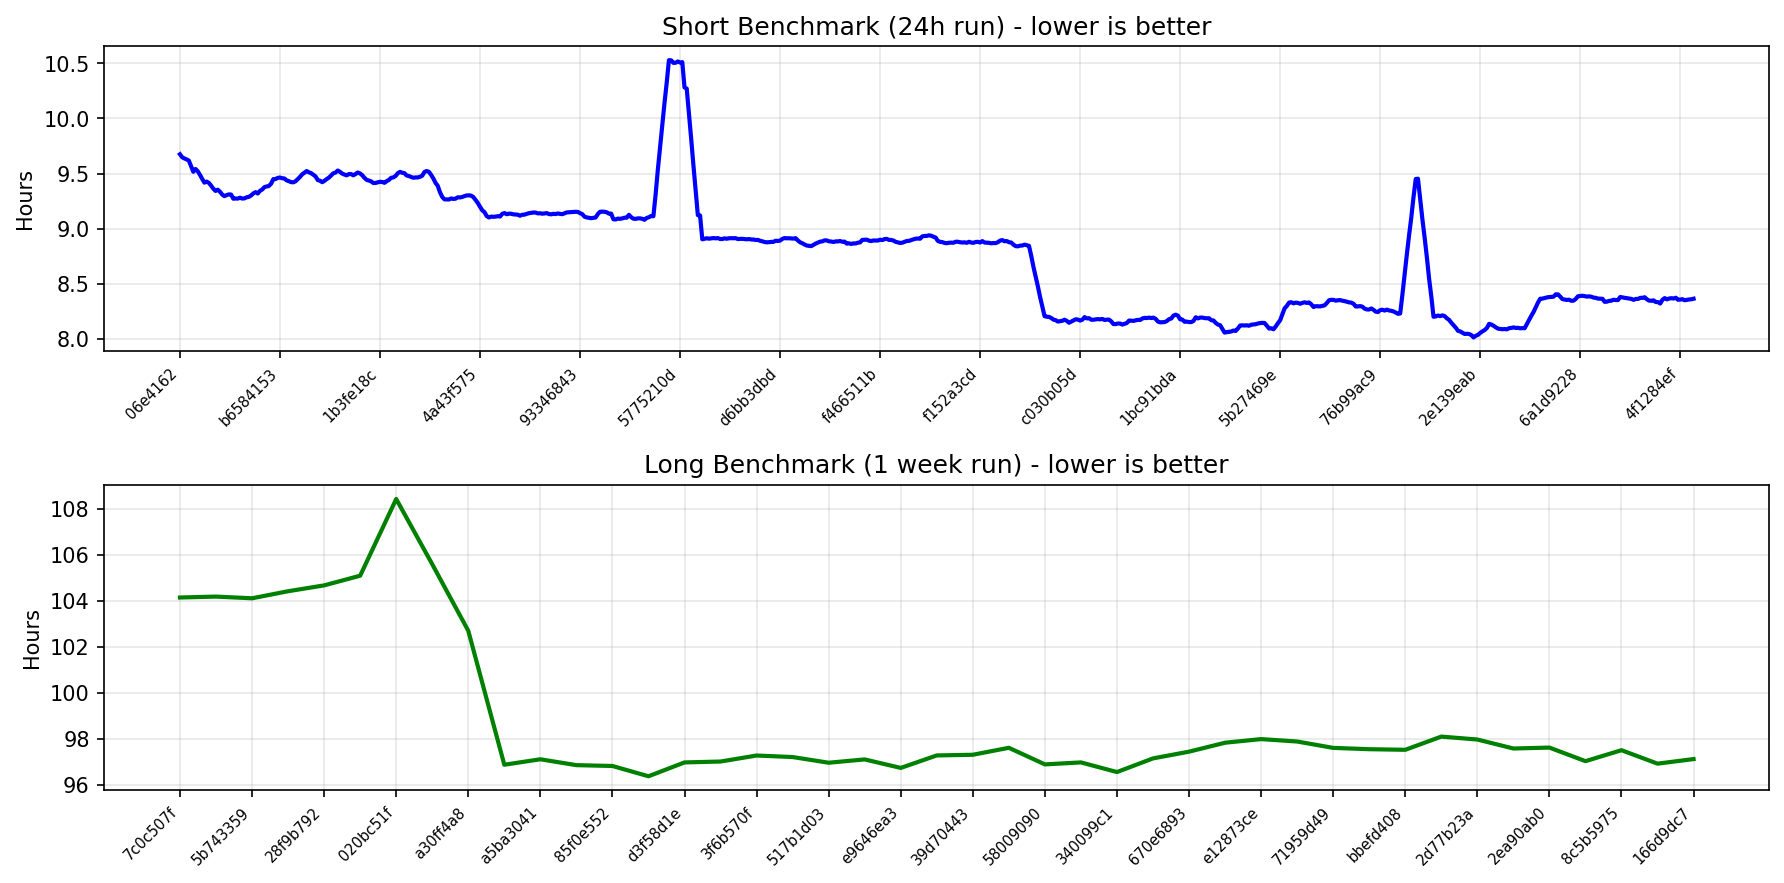
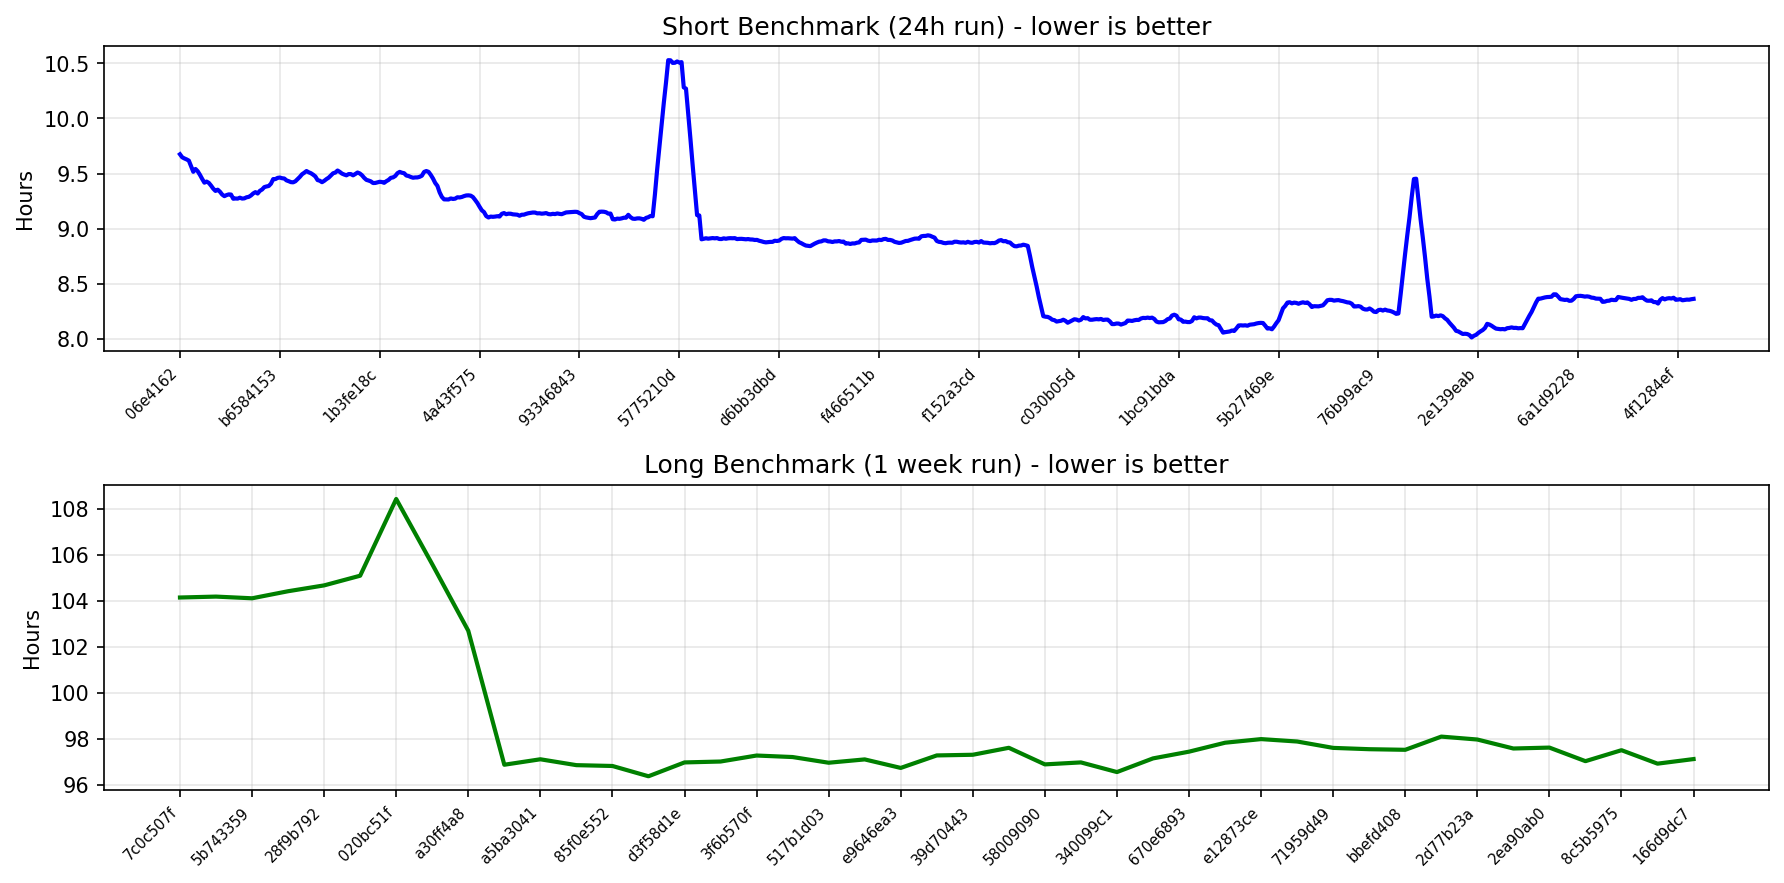
chore: update short benchmark Readme

diff --git a/README.md b/README.md
@@ -12,11 +12,11 @@ This repository contains various eth1 import benchmark metrics.
 
 | Generated At | Baseline SHA | Contender SHA | Baseline Time | Contender Time | Time Delta |
 |--------------|--------------|---------------|---------------|----------------|------------|
+| 2026-05-24 19:26:09 | [c7a238a4](https://github.com/status-im/nimbus-eth1/commit/c7a238a4) | [54deb43d](https://github.com/status-im/nimbus-eth1/commit/54deb43d) | 8h21m41s | 8h21m9s | -31s, -0.11% |
 | 2026-05-24 10:49:14 | [b548086a](https://github.com/status-im/nimbus-eth1/commit/b548086a) | [c7a238a4](https://github.com/status-im/nimbus-eth1/commit/c7a238a4) | 8h22m15s | 8h21m41s | -34s, -0.11% |
 | 2026-05-24 02:11:52 | [01949287](https://github.com/status-im/nimbus-eth1/commit/01949287) | [b548086a](https://github.com/status-im/nimbus-eth1/commit/b548086a) | 8h21m56s | 8h22m15s | 19s, 0.06% |
 | 2026-05-23 17:34:48 | [5341dd13](https://github.com/status-im/nimbus-eth1/commit/5341dd13) | [01949287](https://github.com/status-im/nimbus-eth1/commit/01949287) | 8h21m0s | 8h21m56s | 56s, 0.19% |
 | 2026-05-23 08:58:31 | [74c672de](https://github.com/status-im/nimbus-eth1/commit/74c672de) | [5341dd13](https://github.com/status-im/nimbus-eth1/commit/5341dd13) | 8h19m48s | 8h21m0s | 1m11s, 0.24% |
-| 2026-05-23 00:23:36 | [f2ad42dc](https://github.com/status-im/nimbus-eth1/commit/f2ad42dc) | [74c672de](https://github.com/status-im/nimbus-eth1/commit/74c672de) | 8h21m33s | 8h19m48s | -1m45s, -0.35% |
 
 ## Latest 5 Long Benchmarks (1 Week Run)
 